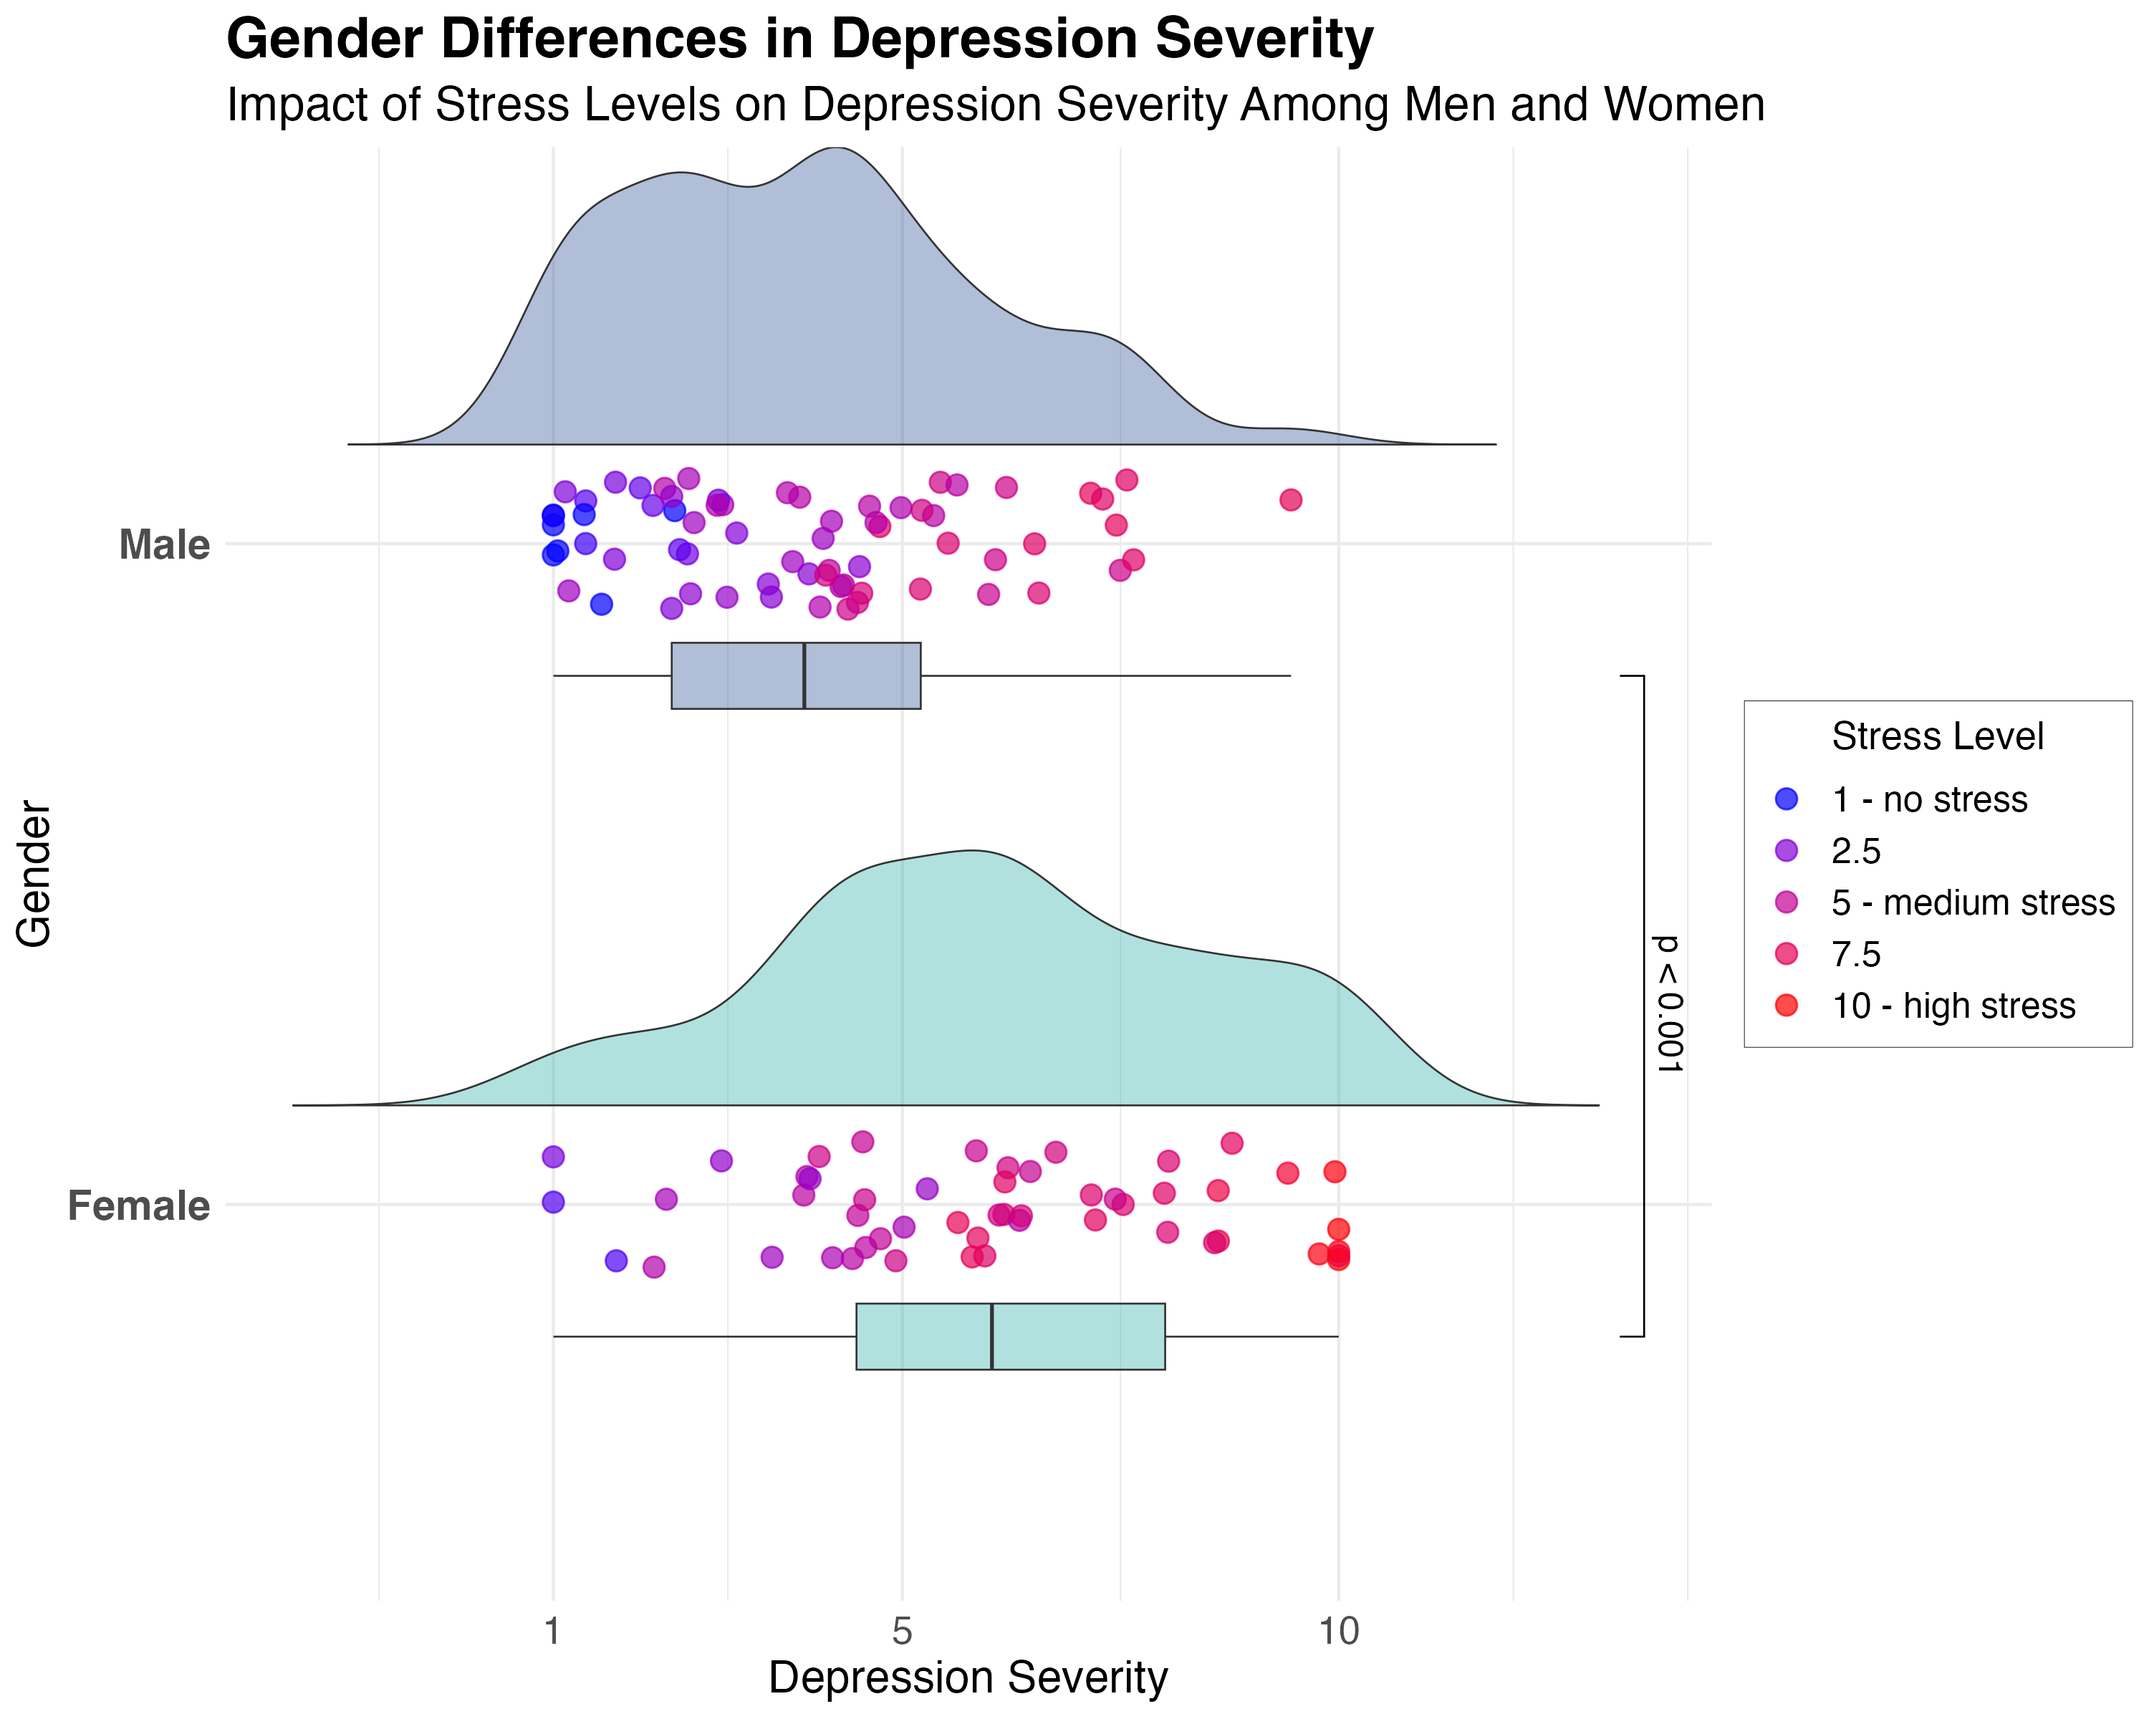
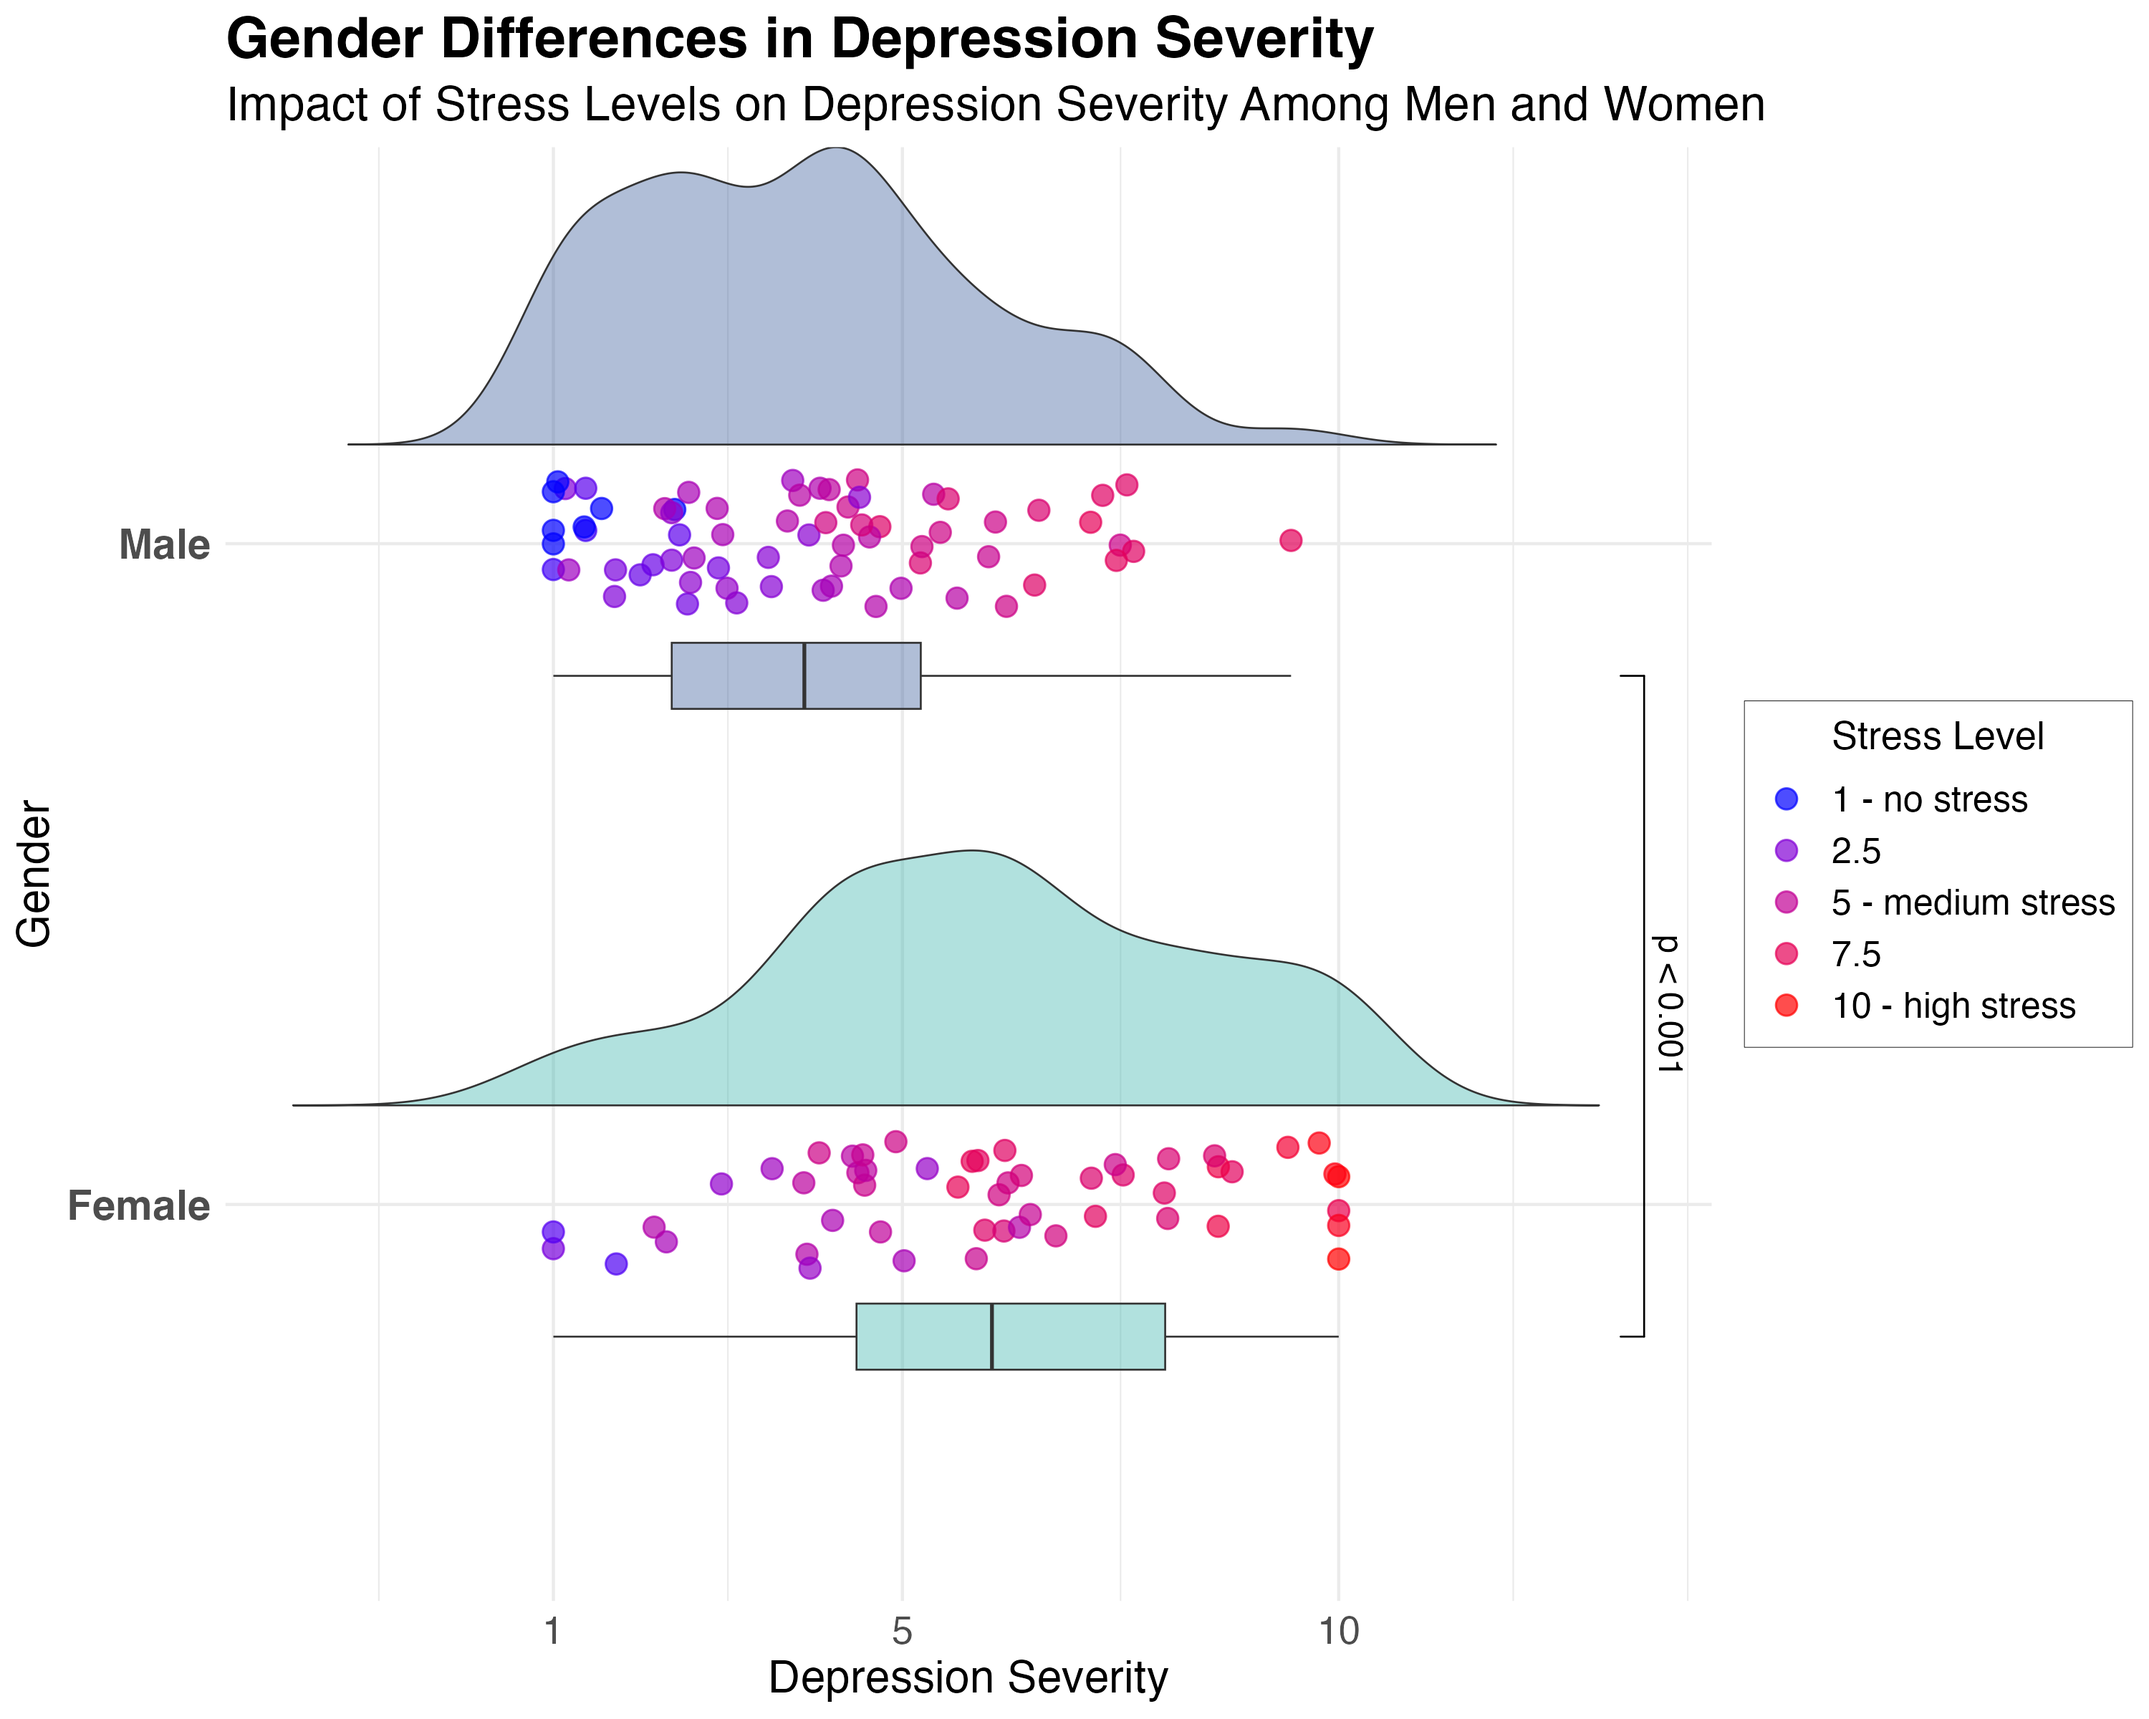
clean up files

Changed region(s): [[0.248, 0.25, 0.527, 0.375], [0.248, 0.6562, 0.651, 0.75], [0.589, 0.2812, 0.62, 0.3125]]

diff --git a/plot assignment/code/analysis.html b/plot assignment/code/analysis.html
@@ -1722,7 +1722,7 @@ to convey the results of quantiative analyses to viewers.</p>
 </div>
 <div id="daten-einlesen" class="section level1">
 <h1>Daten einlesen</h1>
-<div class="sourceCode" id="cb2"><pre class="sourceCode r"><code class="sourceCode r"><span id="cb2-1"><a href="#cb2-1" tabindex="-1"></a>data_raw <span class="ot">&lt;-</span> <span class="fu">read_csv</span>(<span class="st">&quot;../data/raw/depression_data.csv&quot;</span>) <span class="sc">|&gt;</span> </span>
+<div class="sourceCode" id="cb2"><pre class="sourceCode r"><code class="sourceCode r"><span id="cb2-1"><a href="#cb2-1" tabindex="-1"></a>data_raw <span class="ot">&lt;-</span> <span class="fu">read_csv</span>(<span class="st">&quot;../data/processed/depression_data.csv&quot;</span>) <span class="sc">|&gt;</span> </span>
 <span id="cb2-2"><a href="#cb2-2" tabindex="-1"></a>  janitor<span class="sc">::</span><span class="fu">clean_names</span>()</span></code></pre></div>
 </div>
 <div id="good-plot" class="section level1">
